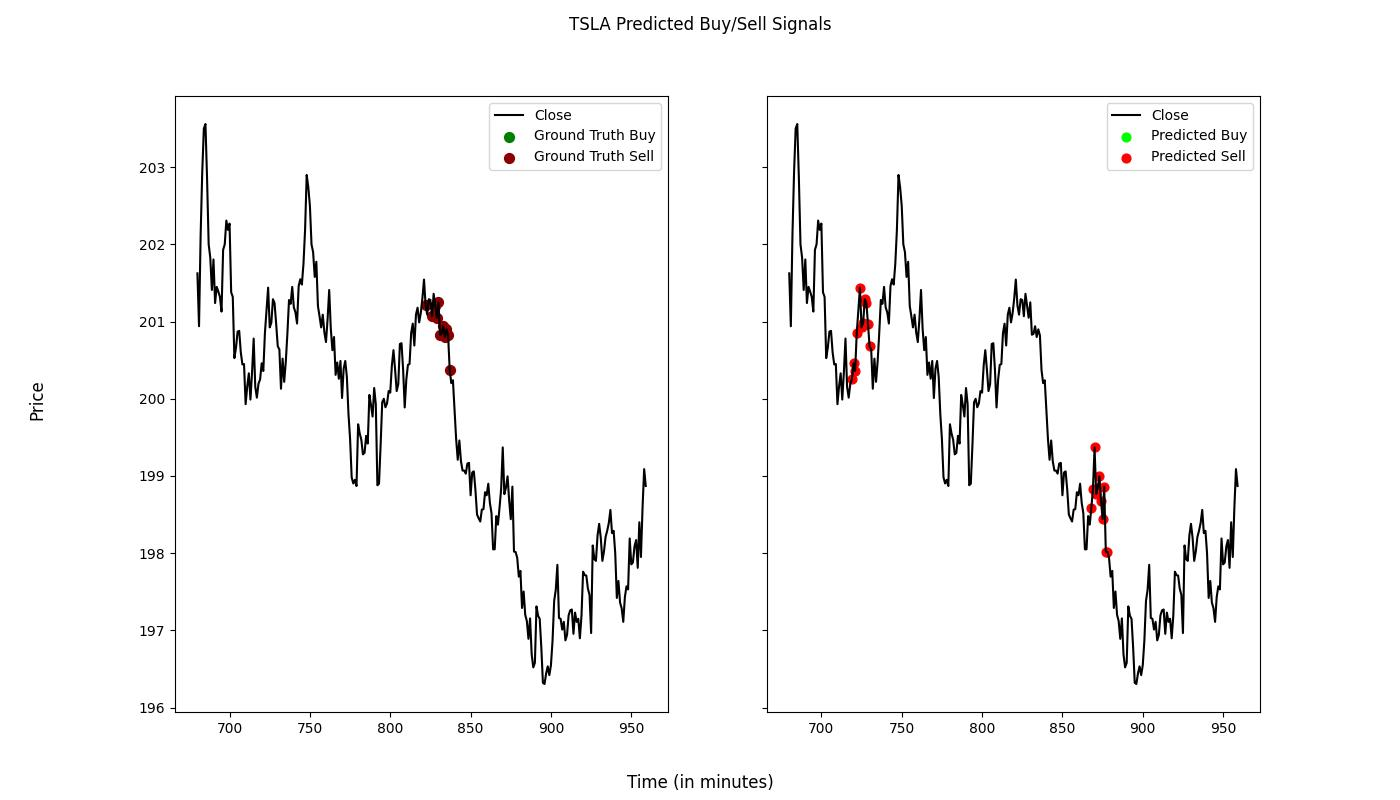
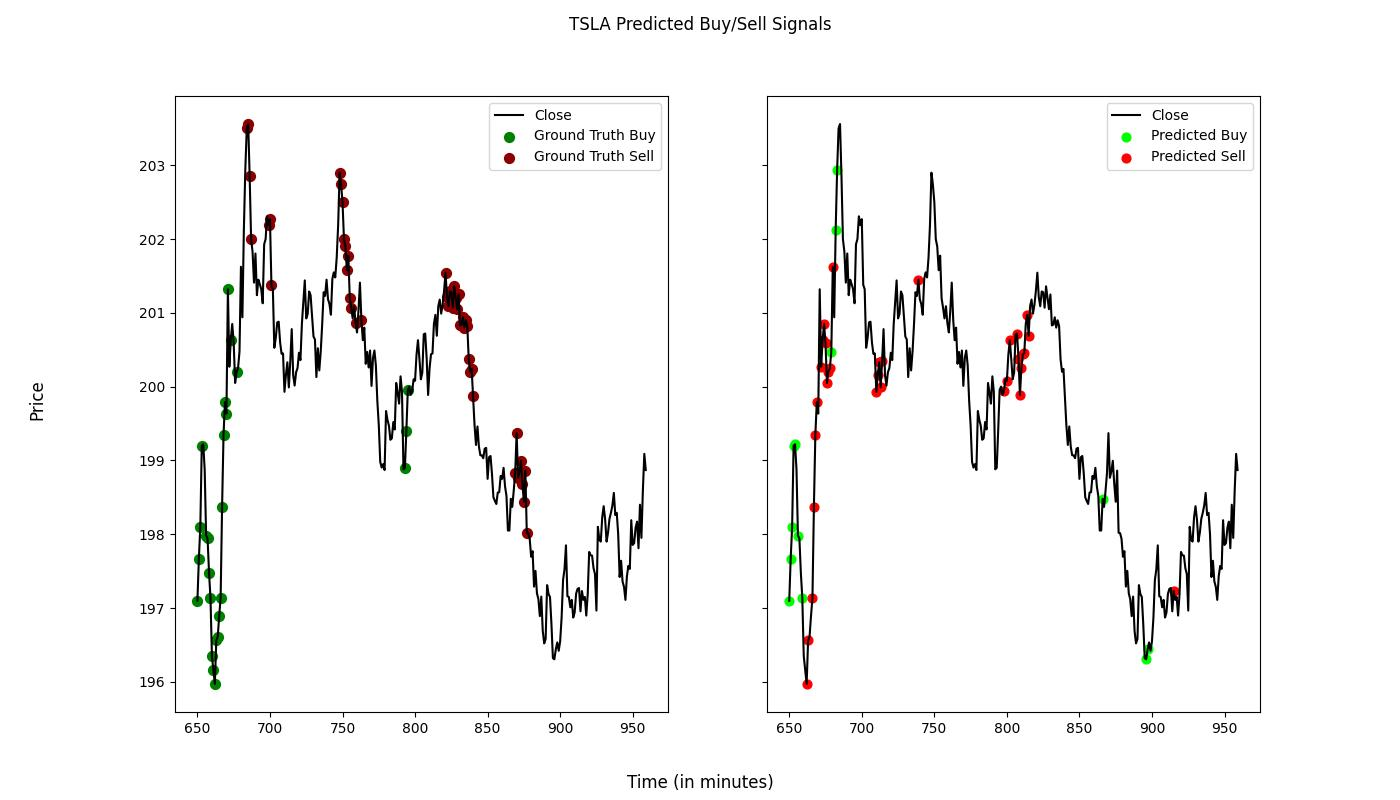
try just max scaling to preserve percent differences

diff --git a/common.py b/common.py
@@ -2,7 +2,7 @@
 
 import numpy as np
 import pandas as pd
-from sklearn.preprocessing import MinMaxScaler
+from sklearn.preprocessing import MaxAbsScaler
 from scipy.optimize import minimize
 
 # Tickers to use for building datasets and training.
@@ -21,8 +21,8 @@ tickers = mag_7_tickers
 # Number of time points to use in defining sequence data.
 WINDOW_LENGTH = 30
 
-# Number of time points to use for defibing buy/sell labels (for constrained linear regression).
-FUTURE_WINDOW_LENGTH = 15
+# Number of time points to use for defining buy/sell labels (for constrained linear regression).
+FUTURE_WINDOW_LENGTH = 30
 
 # Columns from CSV files to keep out of the training data.
 ignore_cols = ['Year', 'Month', 'Day', 'Ticker']
@@ -31,10 +31,10 @@ ignore_cols = ['Year', 'Month', 'Day', 'Ticker']
 VERSION = 'v5'
 
 # Slope to use when classifying buy/sell labels.
-buy_sell_slope = 1
+buy_sell_slope = 0.01/FUTURE_WINDOW_LENGTH
 
 
-def buy_sell_label(data: pd.DataFrame, index: int, col: str, mi: float, scale: float):
+def buy_sell_label(data: pd.DataFrame, index: int, col: str, ma: float):
     """
     Create buy/sell/do nothing labels from the given data.
 
@@ -42,8 +42,7 @@ def buy_sell_label(data: pd.DataFrame, index: int, col: str, mi: float, scale: f
         data (pandas.DataFrame): Pandas DataFrame containing (unscaled) data.
         index (int): Index of the starting index of the input sequence.
         col (str): Name of the column for the prices to use.
-        mi (float): Minimum value (computed by a MinMaxScaler), to be used in normalization.
-        scale (float): Scale value (computed by a MinMaxScaler), to be used in normalization.
+        ma (float): Maximum value (computed by a MaxAbsScaler), to be used in normalization.
 
     Returns:
         numpy.array: One-hot encoded vector for the signal:
@@ -72,14 +71,13 @@ def buy_sell_label(data: pd.DataFrame, index: int, col: str, mi: float, scale: f
     # Choose a label depending on the slope of the constrained regression line using the next
     # WINDOW_LENGTH time steps.
     # [1,0,0] for do nothing, [0,1,0] for buy, [0,0,1] for sell.
-    today_price = (data[col].iloc[index+WINDOW_LENGTH-1] - mi) * scale
-    next_prices = (
-        data[col].iloc[index+WINDOW_LENGTH: index+WINDOW_LENGTH+FUTURE_WINDOW_LENGTH] - mi) * scale
+    today_price = data[col].iloc[index+WINDOW_LENGTH-1] / ma
+    next_prices = data[col].iloc[index+WINDOW_LENGTH: index + WINDOW_LENGTH+FUTURE_WINDOW_LENGTH] / ma
     slope, intercept = best_fit_line_through_today_price(
         today_price, next_prices)
-    if slope <= -buy_sell_slope/FUTURE_WINDOW_LENGTH:
+    if slope <= -buy_sell_slope:
         return np.array([0, 0, 1])
-    elif -buy_sell_slope/FUTURE_WINDOW_LENGTH < slope < buy_sell_slope/FUTURE_WINDOW_LENGTH:
+    elif -buy_sell_slope < slope < buy_sell_slope:
         return np.array([1, 0, 0])
     else:
         return np.array([0, 1, 0])
@@ -112,12 +110,12 @@ def prepare_model_data(data: pd.DataFrame, label: str, col: str):
         def labeller(
             i): return local_data.iloc[i][col] - local_data.iloc[i-1][col]
     elif label == 'signal':
-        def labeller(i, mi, scale): return buy_sell_label(
-            local_data, i, col, mi, scale)
+        def labeller(i, ma): return buy_sell_label(
+            local_data, i, col, ma)
 
     # Init return instances, labels, and scaler values
-    scaler = MinMaxScaler()
-    X, y, scaler_mins, scaler_scales = [], [], [], []
+    scaler = MaxAbsScaler()
+    X, y, scaler_maxes = [], [], []
 
     if label in ['price', 'price-change']:
         offset = 0
@@ -131,20 +129,16 @@ def prepare_model_data(data: pd.DataFrame, label: str, col: str):
         X.append(sequence)
         # Get the scaler values needed to scale/revert
         col_index = np.where(scaler.get_feature_names_out() == col)[0][0]
-        mi, scale = scaler.data_min_[col_index], scaler.scale_[col_index]
+        ma = scaler.max_abs_[col_index]
         if label == 'signal':
-            gt_label = labeller(i, mi, scale)
-        elif label == 'price':
-            gt_label = (labeller(i+WINDOW_LENGTH) - mi) * scale
-        elif label == 'price-change':
-            gt_label = labeller(i+WINDOW_LENGTH) * scale
+            gt_label = labeller(i, ma)
+        elif label in ['price', 'price-change']:
+            gt_label = labeller(i+WINDOW_LENGTH) / ma
         y.append(gt_label)
-        scaler_mins.append(mi)
-        scaler_scales.append(scale)
+        scaler_maxes.append(ma)
 
     X = np.array(X)
     y = np.array(y)
-    scaler_mins = np.array(scaler_mins)
-    scaler_scales = np.array(scaler_scales)
+    scaler_maxes = np.array(scaler_maxes)
 
-    return X, y, scaler_mins, scaler_scales
+    return X, y, scaler_maxes

diff --git a/evaluation.py b/evaluation.py
@@ -53,7 +53,7 @@ def reg_model_eval(model_path: str, model_arch: str, ticker: str, time_interval:
         time_col = data['Minute'][WINDOW_LENGTH:]
 
     # Prepare test data and scalers to plot the real values
-    X, y_gt, scaler_mins, scaler_scales = prepare_model_data(
+    X, y_gt, scaler_maxes = prepare_model_data(
         data, label, 'Close')
 
     # Predict
@@ -61,12 +61,9 @@ def reg_model_eval(model_path: str, model_arch: str, ticker: str, time_interval:
     y_predictions = model.predict(X).reshape(len(y_gt))
 
     # Scale the ground truth and predictions back to their original scales
-    if label == 'price':
-        y_gt = y_gt / scaler_scales + scaler_mins
-        y_predictions = y_predictions / scaler_scales + scaler_mins
-    elif label == 'price-change':
-        y_gt = y_gt / scaler_scales
-        y_predictions = y_predictions / scaler_scales
+    if label in ['price', 'price-change']:
+        y_gt = y_gt * scaler_maxes
+        y_predictions = y_predictions * scaler_maxes
 
     # Calculate various metrics.
     # MAE
@@ -161,7 +158,7 @@ def class_model_eval(model_path: str, model_arch: str, ticker: str, time_interva
         time_col = data['Minute'][WINDOW_LENGTH:]
 
     # Prepare test data and scalers to plot the real values
-    X, y_gt, scaler_mins, scaler_scales = prepare_model_data(
+    X, y_gt, scaler_maxes = prepare_model_data(
         data, 'signal', 'Close')
 
     # Predict

diff --git a/train.py b/train.py
@@ -51,7 +51,7 @@ def prepare_training_data(time_interval: str, label: str):
             days = daily_data.groups.keys()
             for day in days:
                 day_data = daily_data.get_group(day)
-                ticker_X, ticker_y, mins, scales = prepare_model_data(
+                ticker_X, ticker_y, maxes = prepare_model_data(
                     day_data, label, 'Close')
 
                 X.append(ticker_X)
@@ -59,7 +59,7 @@ def prepare_training_data(time_interval: str, label: str):
 
         elif time_interval == '1d':
             # Just use the whole file as the training set
-            ticker_X, ticker_y, mins, scales = prepare_model_data(
+            ticker_X, ticker_y, maxes = prepare_model_data(
                 data, label, 'Close')
 
             X.append(ticker_X)
@@ -89,7 +89,7 @@ def custom_categorical_crossentropy(y_true, y_pred):
     """
     # weights[i][j]: penalty for if the ground truth was i but the predicted was j.
     weights = tf.constant([
-        [0.0, 2.0, 2.0],
+        [0.0, 3.0, 3.0],
         [3.0, 0.0, 8.0],
         [3.0, 8.0, 0.0]
     ])
